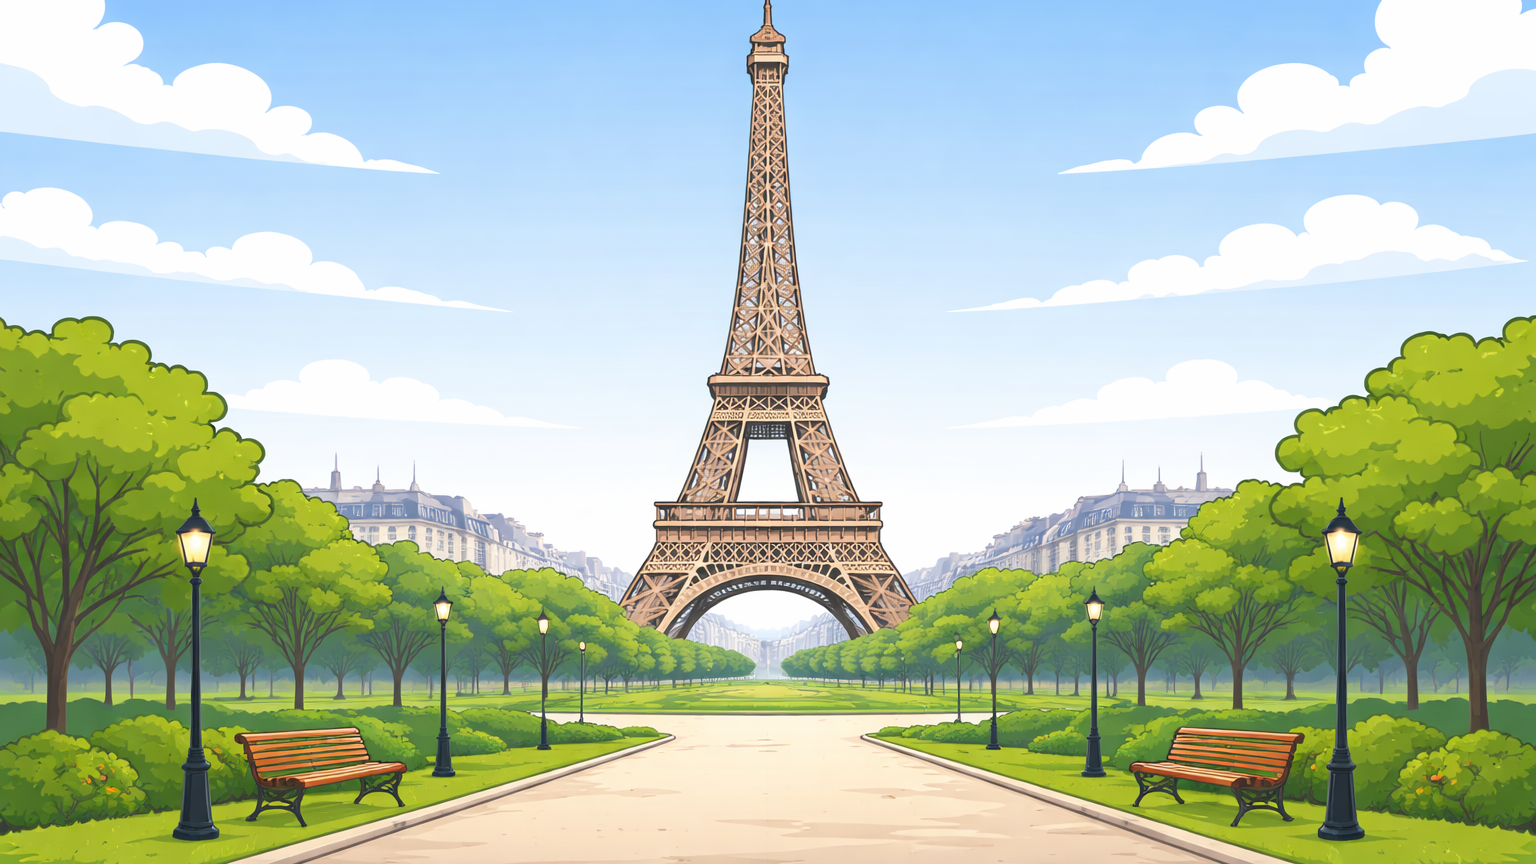
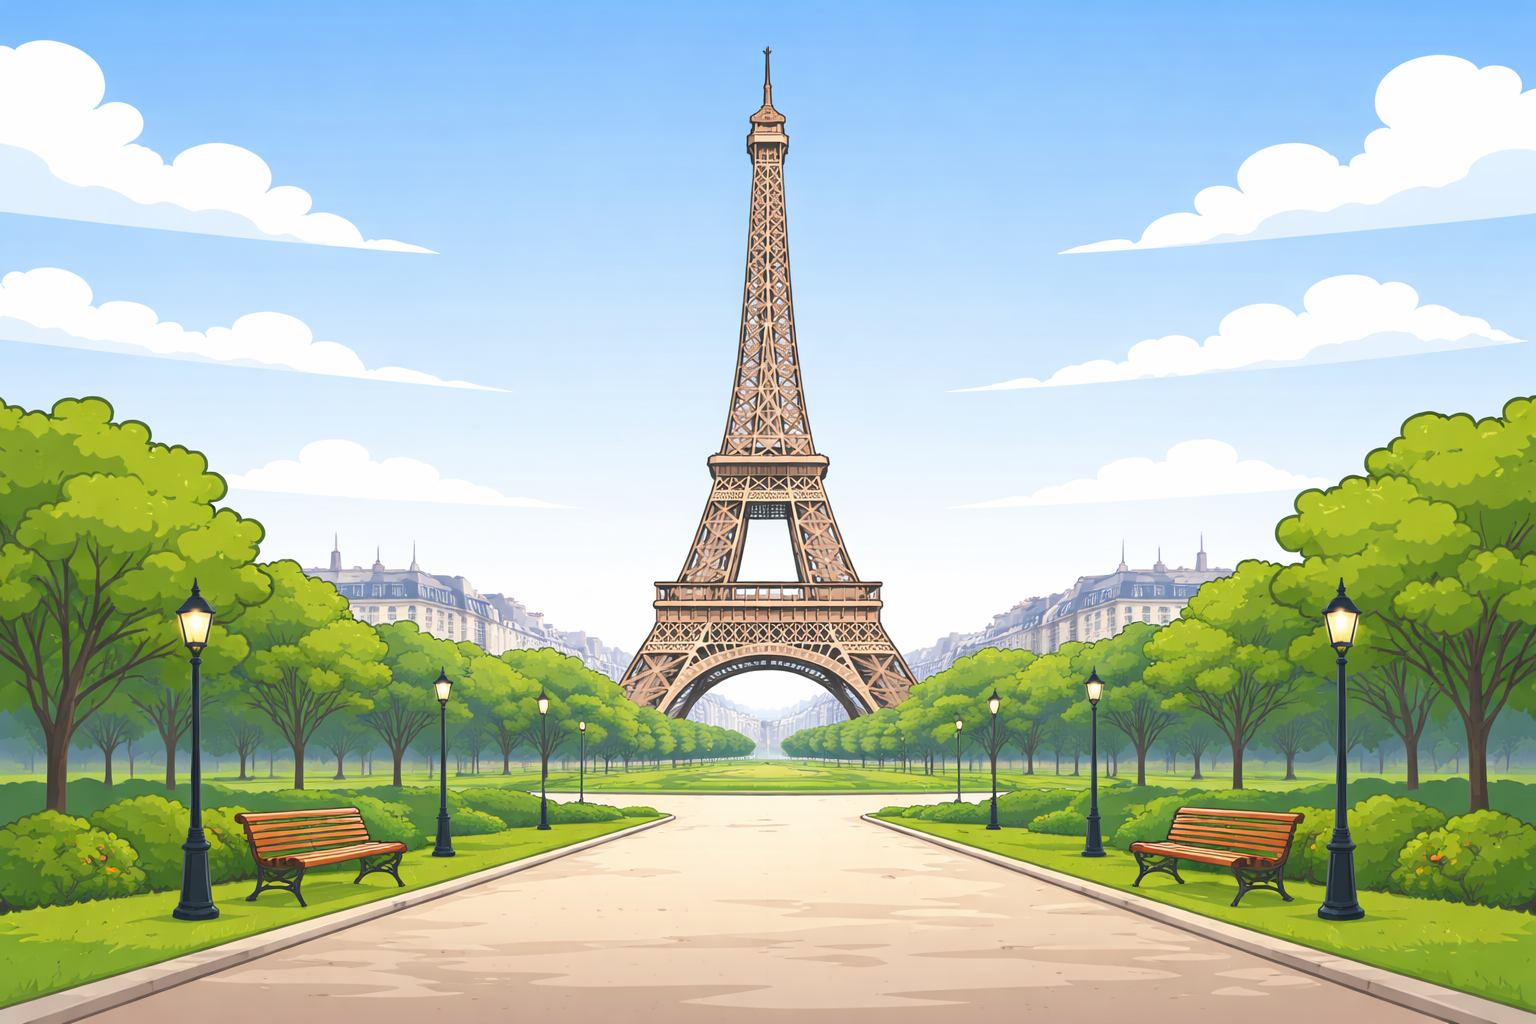
Updated backgrounds

diff --git a/ShooterBRemake/Assets/Scripts/Controllers/GameController.cs b/ShooterBRemake/Assets/Scripts/Controllers/GameController.cs
@@ -10,6 +10,7 @@ namespace ShooterB
         public bool useBackgroundShade = true;
         [Range(0f, 0.5f)] public float backgroundShade = 0.25f;
         public bool backgroundFillScreen = false;
+        public bool alignBackgroundTopLeft = true;
 
         private void Start()
         {
@@ -96,6 +97,26 @@ namespace ShooterB
                 : Mathf.Min(widthRatio, heightRatio); // contain (no crop)
 
             backgroundRenderer.transform.localScale = new Vector3(scale, scale, 1f);
+
+            if (alignBackgroundTopLeft)
+                AlignBackgroundTopLeft();
+        }
+
+        private void AlignBackgroundTopLeft()
+        {
+            if (backgroundRenderer == null || mainCamera == null)
+                return;
+
+            Vector3 cameraPosition = mainCamera.transform.position;
+            float cameraHeight = mainCamera.orthographicSize * 2f;
+            float cameraWidth = cameraHeight * mainCamera.aspect;
+            Vector2 backgroundSize = backgroundRenderer.bounds.size;
+
+            float x = cameraPosition.x - (cameraWidth * 0.5f) + (backgroundSize.x * 0.5f);
+            float y = cameraPosition.y + (cameraHeight * 0.5f) - (backgroundSize.y * 0.5f);
+
+            Vector3 position = backgroundRenderer.transform.position;
+            backgroundRenderer.transform.position = new Vector3(x, y, position.z);
         }
 
         private void Update()

diff --git a/ShooterBRemake/Assets/Scripts/Managers/BackgroundManager.cs b/ShooterBRemake/Assets/Scripts/Managers/BackgroundManager.cs
@@ -7,16 +7,22 @@ namespace ShooterB
     {
         private static readonly Dictionary<string, string> BackgroundPaths = new Dictionary<string, string>
         {
+            { "arcade_arc_de_triumphe", "Backgrounds/bckArcDeTriumphe" },
             { "arcade_eifel_paris", "Backgrounds/bckEifelParis" },
+            { "arcade_louvre_paris", "Backgrounds/bckLouvreParis" },
             { "arcade_moulen_paris", "Backgrounds/bckMoulenParis" },
-            { "arcade_notre_dame_paris", "Backgrounds/bckNotreDameParis" }
+            { "arcade_notre_dame_paris", "Backgrounds/bckNotreDameParis" },
+            { "arcade_sacre_paris", "Backgrounds/bckSacreParis" }
         };
 
         private static readonly string[] ArcadeBackgroundKeys =
         {
+            "arcade_arc_de_triumphe",
             "arcade_eifel_paris",
+            "arcade_louvre_paris",
             "arcade_moulen_paris",
-            "arcade_notre_dame_paris"
+            "arcade_notre_dame_paris",
+            "arcade_sacre_paris"
         };
 
         public static Constants.GameMode ResolveMode(Constants.GameMode? mode = null)
